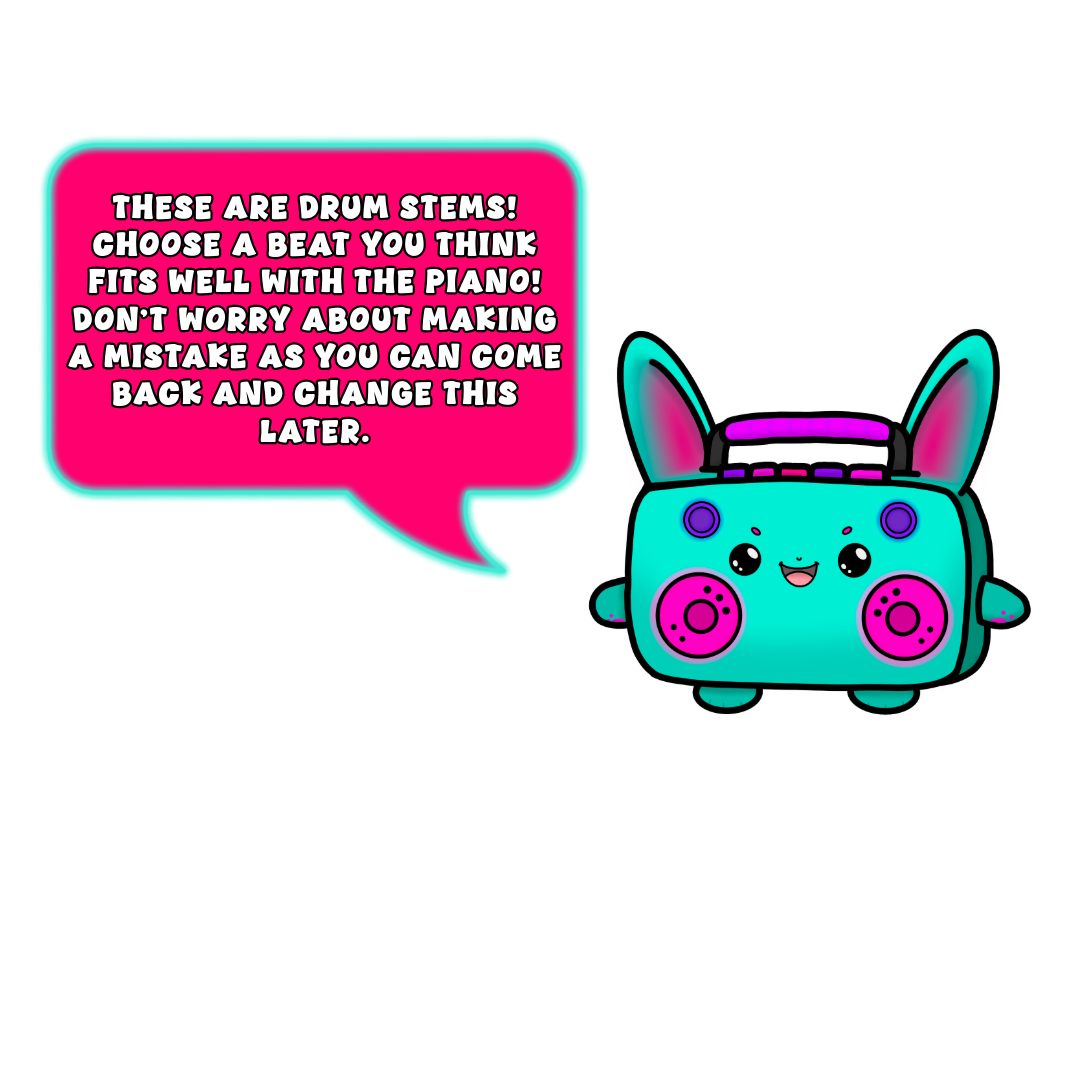
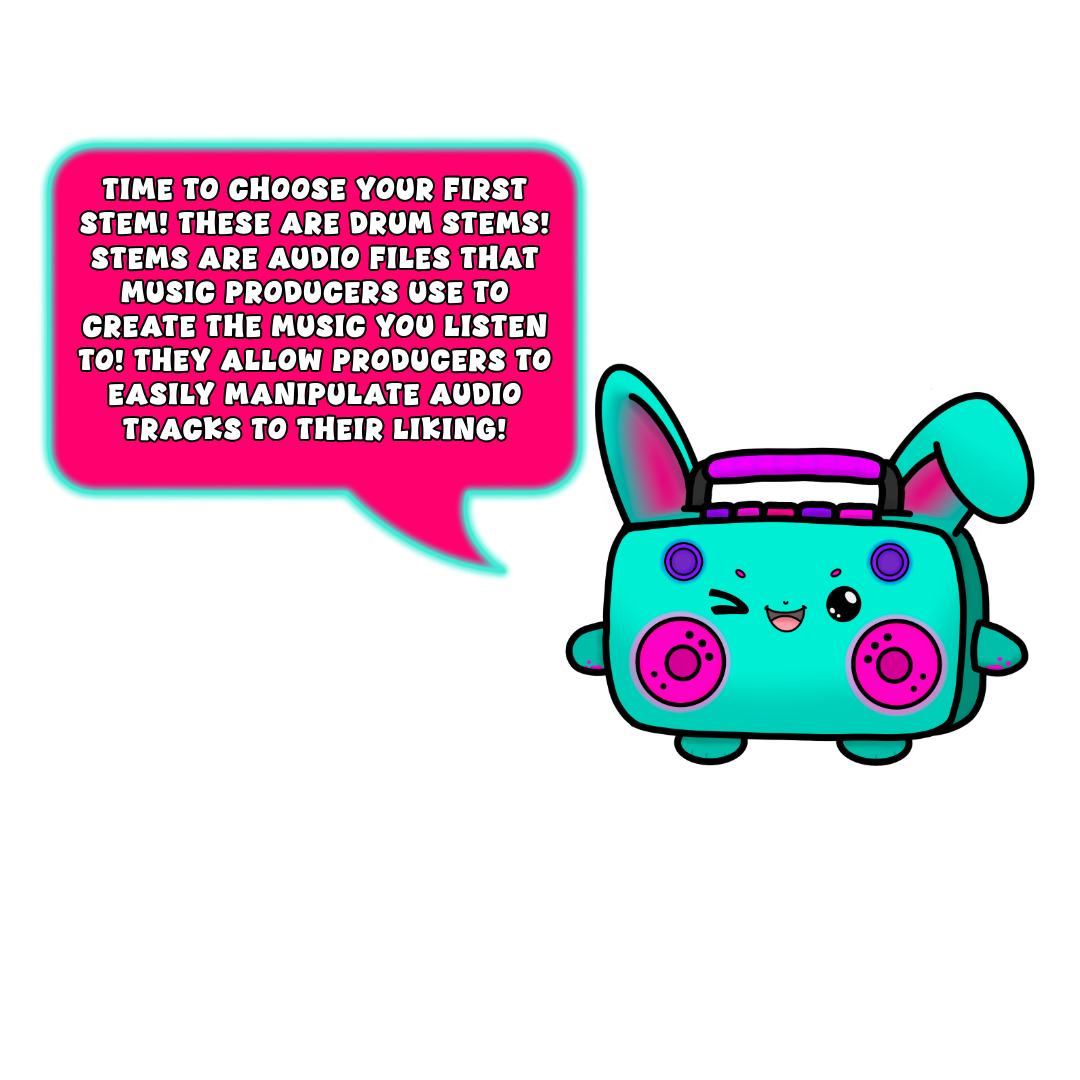
Co-authored-by: llaurenmoreno <llaurenmoreno@users.noreply.github.com>

Changed region(s): [[0.5194, 0.3056, 0.9778, 0.7333], [0.0611, 0.1528, 0.5194, 0.4278]]

diff --git a/CYOAUdio/sketch1.js b/CYOAUdio/sketch1.js
@@ -27,10 +27,21 @@ let boombox;
 let boombox2;
 let titleBg;
 let instrumentBg;
-let state = 0; // 0: Title, 1: Instructions, 2: Piano, 3: Drums, 4: Guitar, 5: Mix
-let bbpiano, bbdrums, bbguitar,bbmaster;
+let state = 0; // 0: Title, 1: Instructions, 2: Guitar, 3: Drums, 4: Piano, 5: Mix
+let bbpiano, bbdrums, bbguitar,bbmaster,bbintro;
 
 let totalMovement = 100;
+
+const refWidth = 1536;
+const refHeight = 703;
+
+function scaleX(x) {
+  return (x / refWidth) * width;
+}
+
+function scaleY(y) {
+  return (y / refHeight) * height;
+}
 
 function preload() {
   pianoSounds[0] = loadSound("music/piano1.mp3");
@@ -55,8 +66,12 @@ function preload() {
   font = loadFont("assets/Showpop.ttf");
   titleBg = loadImage("assets/testerfrontbg.jpg");
   instrumentBg = loadImage("assets/instrumentpage.jpg")
-  bbdrums = loadImage("assets/BBdrums.png");
-  bbmaster = loadImage("assets/BBmaster.png");
+  masterbg = loadImage("assets/mastering.jpg");
+  bbdrums = loadImage("assets/BBDrums.png");
+  bbmaster = loadImage("assets/BBMaster.png");
+  bbpiano = loadImage("assets/BBPiano.png");
+  bbguitar = loadImage("assets/BBGuitar.png");
+  bbintro = loadImage("assets/BBIntro.png")
 
 }
 
@@ -113,55 +128,61 @@ function setup() {
   updateUI();
 }
 
+function windowResized() {
+  resizeCanvas(windowWidth, windowHeight);
+  updateUI();
+}
+
 function draw() {
   if (state === 0) {
-    background(titleBg);
+    image(titleBg, 0, 0, width, height);
     textSize(110);
     fill(255);
-    text("Bunnybox\nStudio", width / 2, height / 3.5);
+    text("Bunnybox\nStudio", width / 2, scaleY(200));
     textSize(18);
-    text("Move your mouse or press any key to begin", width / 2, height / 1.9);
+    text("Move your mouse or press any key to begin", width / 2, scaleY(370));
   }
 
   if (state === 1) {
     background("#333333");
     fill(255);
     textSize(64);
-    text("Instructions", width / 2, 100);
-    textSize(24);
-    let instr = "1. Preview sounds on the following pages.\n" +
-                "2. Check the box of the loop you like best.\n" +
-                "3. Mix your final track in the Mixing Booth!\n\n" +
-                "Press 'Next' to select your Piano.";
-    text(instr, width / 2, height / 2 - 20);
+    text("Instructions", width / 2, scaleY(100));
+    image(bbintro, scaleX(400), scaleY(100), scaleX(700), scaleY(700));
+
   }
 
   if (state === 2) {
-    drawInstrumentPage("Piano", pianoUI);
-  }
-  if (state === 3) {
     drawInstrumentPage("Drums", drumUI);
-    image(bbdrums, 525,25, 900, 900);
+    image(bbdrums, scaleX(525), scaleY(50), scaleX(900), scaleY(900));
   }
+
+  if (state === 3) {
+    drawInstrumentPage("Piano", pianoUI);
+    image(bbpiano, scaleX(525), scaleY(50), scaleX(900), scaleY(900));
+
+  }
+
   if (state === 4) {
     drawInstrumentPage("Guitar", guitarUI);
+    image(bbguitar, scaleX(525), scaleY(50), scaleX(900), scaleY(900));
 
   }
 
   if (state === 5) {
-    background("#333333");
+    image(masterbg, 0, 0, width, height);
     textSize(64);
     fill(255);
-    text("Mixing Booth", width / 2, 80);
-    image(bbmaster, 800,100, 417, 597);
+    text("Mixing Booth", width / 2, scaleY(80));
+    image(bbmaster, scaleX(800), scaleY(-25), scaleX(651), scaleY(932));
 
     masterGain.amp(masterVolumeSlider.value());
 
     textSize(16);
     fill(255);
-    text("Master Vol", masterVolumeSlider.x + 250, masterVolumeSlider.y - 15);
-    text("Master Pitch", masterPitchSlider.x + 100, masterPitchSlider.y - 120);
-    text("Track Vol", 415, 200);
+    text("Master Vol", masterVolumeSlider.x + masterVolumeSlider.width / 2, masterVolumeSlider.y - scaleY(15));
+    text("Master Pitch", masterPitchSlider.x + scaleX(100), masterPitchSlider.y - scaleY(120));
+    text("Track Vol", scaleX(415), scaleY(200));
 
     for (let row of mixUI) {
       row.gainNode.amp(row.volSlider.value());
@@ -170,9 +191,9 @@ function draw() {
 
     if (isRecording) {
       let duration = (millis() - recordStartTime) / 1000;
-      fill(255, 0, 0);
+      fill(255);
       textSize(36);
-      text("RECORDING: " + nf(duration, 0, 1) + "s", 400, height - 200);
+      text("RECORDING: " + nf(duration, 0, 1) + "s", scaleX(400), height - scaleY(195));
     }
 
     if (getSelectedStems().length === 0) {
@@ -212,19 +233,20 @@ function createStemRows(uiArray, soundArray, label) {
 
 function drawInstrumentPage(title, uiArray) {
   background("#333333");
-  background(instrumentBg);
+  image(instrumentBg, 0, 0, width, height);
   textSize(64);
   fill(255);
-  text(title, width / 2, 80);
+  text(title, width / 2, scaleY(80));
 
-  let startX = 120;
-  let startY = 150;
+  let startX = scaleX(120);
+  let startY = scaleY(150);
+  let spacing = scaleY(81);
 
   for (let i = 0; i < uiArray.length; i++) {
     let row = uiArray[i];
-    row.playButton.position(startX, startY + i * 81);
-    row.label.position(startX + 90, startY + 10 + i * 79.5);
-    row.checkbox.position(startX + 290, startY + 10 + i * 80);
+    row.playButton.position(startX, startY + i * spacing);
+    row.label.position(startX + scaleX(90), startY + scaleY(10) + i * scaleY(79.5));
+    row.checkbox.position(startX + scaleX(290), startY + scaleY(10) + i * scaleY(80));
   }
 }
 
@@ -327,8 +349,8 @@ function prevScreen() {
 
 function selectionMade() {
   if (state === 0 || state === 1) return true;
-  if (state === 2) return isAnyChecked(pianoUI);
-  if (state === 3) return isAnyChecked(drumUI);
+  if (state === 2) return isAnyChecked(drumUI);
+  if (state === 3) return isAnyChecked(pianoUI);
   if (state === 4) return isAnyChecked(guitarUI);
   return true;
 }
@@ -354,20 +376,20 @@ function updateUI() {
 
   if (state === 1) {
     nextButton.html("Next");
-    nextButton.position(300, height - 75);
-    backButton.position(120, height - 75);
+    nextButton.position(scaleX(300), height - scaleY(75));
+    backButton.position(scaleX(120), height - scaleY(75));
     nextButton.show();
     backButton.show();
   }
 
   if (state === 2 || state === 3 || state === 4) {
-    let currentUI = (state === 2) ? pianoUI : (state === 3) ? drumUI : guitarUI;
+    let currentUI = (state === 2) ? drumUI : (state === 3) ? pianoUI : guitarUI;
     currentUI.forEach(row => { row.playButton.show(); row.label.show(); row.checkbox.show(); });
     
     nextButton.html("Next");
-    nextButton.position(300, height - 75);
-    backButton.position(120, height - 75);
-    stopAllButton.position(480, height - 75);
+    nextButton.position(scaleX(300), height - scaleY(75));
+    backButton.position(scaleX(120), height - scaleY(75));
+    stopAllButton.position(scaleX(480), height - scaleY(75));
     nextButton.show();
     backButton.show();
     stopAllButton.show();
@@ -375,15 +397,15 @@ function updateUI() {
 
   if (state === 5) {
     buildMixingUI();
-    backButton.position(120, height - 75);
+    backButton.position(scaleX(120), height - scaleY(75));
     nextButton.hide();
-    playAllButton.position(120, height - 160);
-    stopAllButton.position(480, height - 75);
-    startOverButton.position(300, height - 75);
-    recordButton.position(480, height - 160);
+    playAllButton.position(scaleX(120), height - scaleY(160));
+    stopAllButton.position(scaleX(480), height - scaleY(75));
+    startOverButton.position(scaleX(300), height - scaleY(75));
+    recordButton.position(scaleX(480), height - scaleY(160));
 
-    masterVolumeSlider.position(120, 475);
-    masterPitchSlider.position(500, 320);
+    masterVolumeSlider.position(scaleX(120), scaleY(475));
+    masterPitchSlider.position(scaleX(500), scaleY(320));
 
     backButton.show();
     playAllButton.show();
@@ -404,8 +426,9 @@ function buildMixingUI() {
   mixUI = [];
 
   let selected = getSelectedStems();
-  let startX = 120;
-  let startY = 220;
+  let startX = scaleX(120);
+  let startY = scaleY(220);
+  let spacing = scaleY(80);
 
   for (let i = 0; i < selected.length; i++) {
     let row = { playing: false, sound: selected[i].sound };
@@ -417,17 +440,17 @@ function buildMixingUI() {
 
     row.playButton = createButton("Play");
     row.playButton.size(70, 40);
-    row.playButton.position(startX, startY + i * 80);
+    row.playButton.position(startX, startY + i * spacing);
     row.playButton.mousePressed(() => toggleIndividualStem(row, row.sound));
 
     row.label = createSpan(selected[i].label);
-    row.label.position(startX + 90, startY + 10 + i * 80);
+    row.label.position(startX + scaleX(90), startY + scaleY(10) + i * spacing);
     row.label.style('font-family', 'Montserrat, sans-serif');
     row.label.style('font-weight', 'bold');
 
     row.volSlider = createSlider(0, 1, 0.8, 0.01);
-    row.volSlider.position(startX + 240, startY + 10 + i * 80);
-    row.volSlider.size(120);
+    row.volSlider.position(startX + scaleX(240), startY + scaleY(10) + i * spacing);
+    row.volSlider.size(scaleX(120));
 
     mixUI.push(row);
   }
@@ -476,10 +499,15 @@ function mouseMoved() {
   }
 }
 
-function keyPressed() {
+// function mouseClicked(){
+// if (state === 0) {
+//   nextScreen();  
+// }
+
+
+  function keyPressed() {
   if (state === 0) {
     nextScreen();
-    return;
   }
 
   if (key === 'd' || key === 'D') {

diff --git a/CYOAUdio/auditorialdiff.css b/CYOAUdio/auditorialdiff.css
@@ -4,8 +4,7 @@ html, body {
   font-family: Montserrat, sans-serif;
   overflow: hidden;
   color: white;
-    /* text-shadow: 0 0 8px #dedede; */
-
+    text-shadow: 0 0 3px #000000;
 }
 canvas {
   background-color:rgb(255, 255, 255);
@@ -21,10 +20,12 @@ button {
   cursor: pointer;
   transition: all 0.15s ease-in;
   font-family: Montserrat, sans-serif;
-    text-shadow: 0 0 8px #dedede;
+  text-shadow: 0 0 8px #dedede;
 }
 
 button:hover {
+  text-shadow: 0 0 8px #757575;
+  font-size:18px;
   background-color: white;
   color: #8338EC;
   font-weight:bold;
@@ -38,7 +39,13 @@ button:hover {
   border-radius: 4px;
   background-color: white;
   cursor:pointer;
-  
+  transition: background-color 0.2s ease-in-out, width 0.2s ease-in-out, height 0.2s ease-in-out;
+}
+
+.checkbox input[type="checkbox"]:hover {
+  background-color: #aee8f0;
+  width: 24px;
+  height: 24px;
 }
 
 .checkbox input[type="checkbox"]:checked {
@@ -112,7 +119,7 @@ input[type="range"]::-moz-range-thumb {
   height: 20px;
   width: 20px;
   border-radius: 50%;
-  background: #FF006E;
+  background: #41EAD4;
   cursor: pointer;
   border: 4px solid #000000;
   

diff --git a/CYOAUdio/auditorialdiff.html b/CYOAUdio/auditorialdiff.html
@@ -5,7 +5,7 @@
     <script src="https://cdn.jsdelivr.net/npm/p5@1.11.11/lib/addons/p5.sound.min.js"></script>
     <link rel="stylesheet" type="text/css" href="auditorialdiff.css">
     <script src="sketch1.js"></script>
-    <title>Auditory Differential</title>
+    <title>Bunny Box Studio</title>
     <meta charset="utf-8">
   </head>
 
